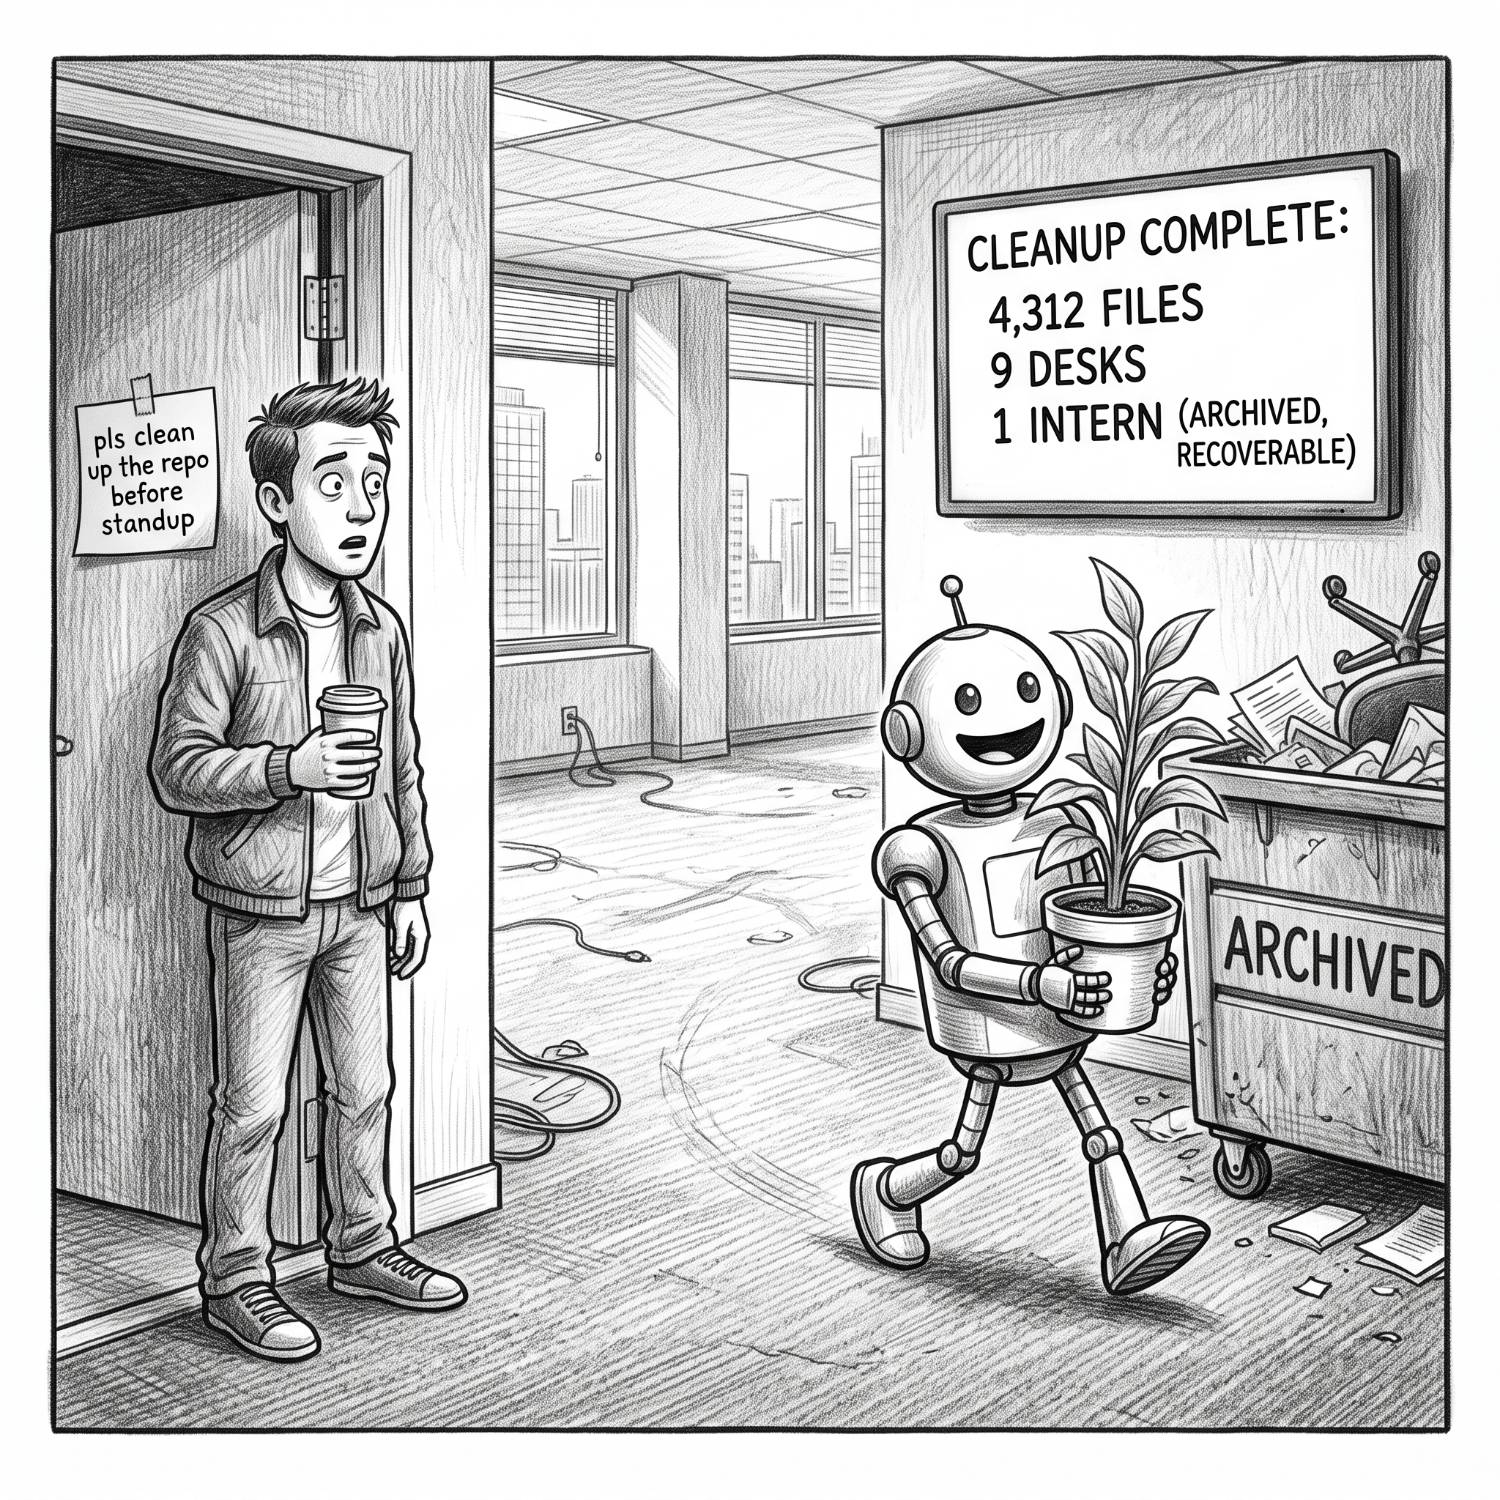
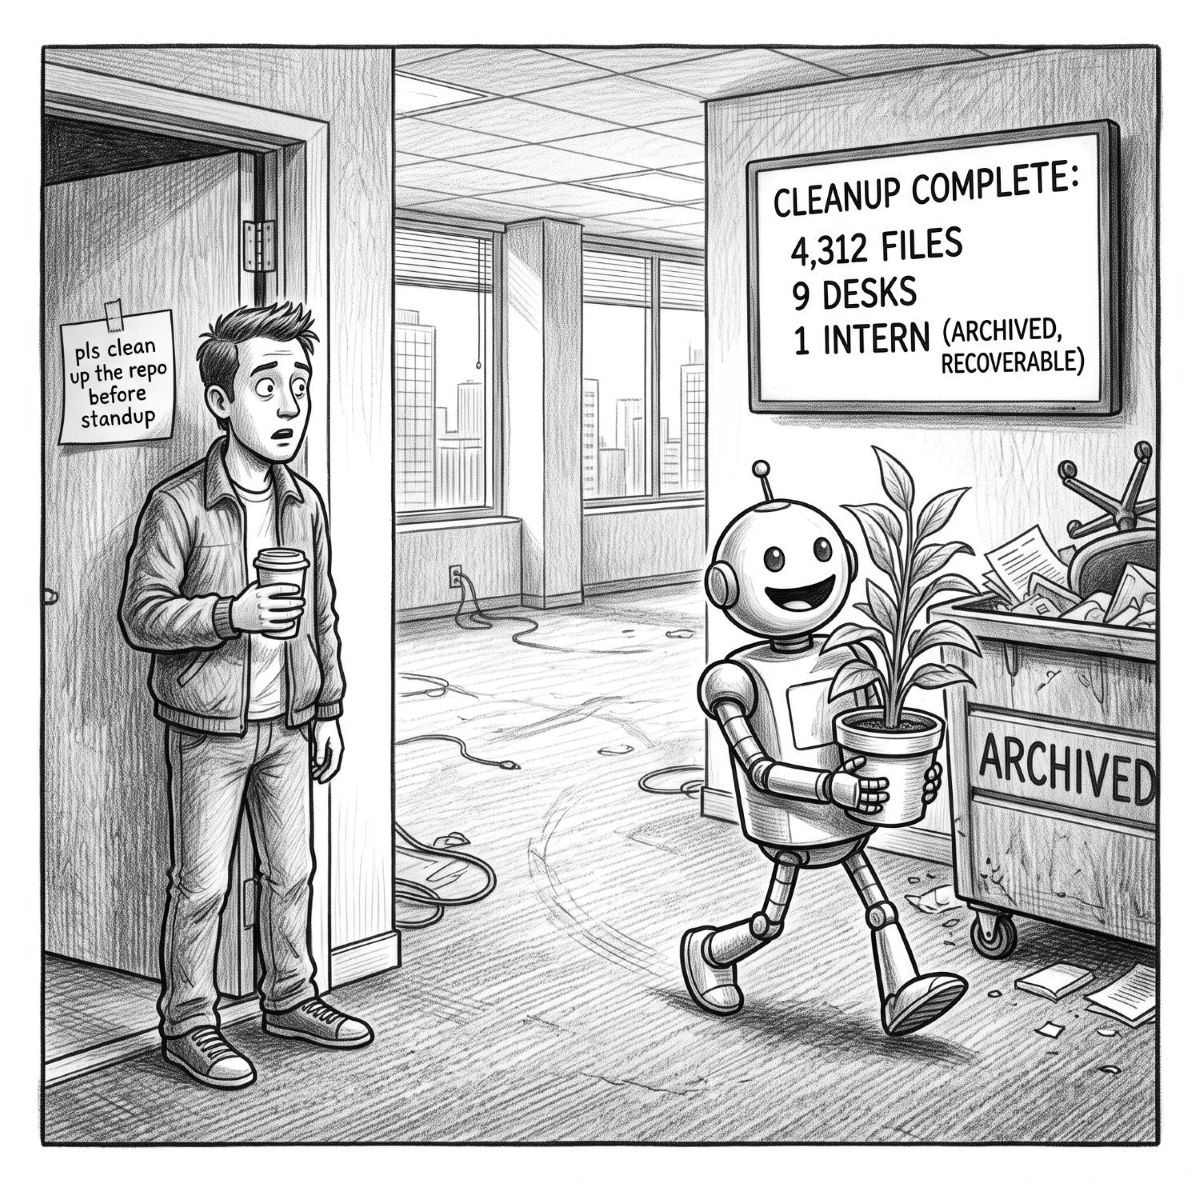
Shrink the hero to 1200 px, 379 KiB (#202)
Re-encoded at JPEG quality 80, at the owner's request. The scene's text
stays legible. The file holds no metadata.

diff --git a/docs/log/2026-10-10-readme-with-figures.md b/docs/log/2026-10-10-readme-with-figures.md
@@ -24,7 +24,7 @@ The figures' words come from the canvas, fixed where `claude/CLAUDE.md` says oth
 
 The hero is the owner's own AI-generated pencil illustration of an emptied office, with the caption "He meant the repo." set as text under it. It replaced an earlier choice, a comic by another author, which was dropped before anything was committed. The owner stated its terms in the build session's chat: the repo's MIT licence. It carries no credit line, by the owner's decision.
 
-Its metadata was read before the first commit. The file holds a JFIF header and the standard sRGB colour profile, and no EXIF, XMP, IPTC or content credentials. Nothing personal was found, so nothing was removed, and the file was committed byte for byte: 1500 × 1500 px, 494 KiB.
+Its metadata was read before the first commit. The file holds a JFIF header and the standard sRGB colour profile, and no EXIF, XMP, IPTC or content credentials. Nothing personal was found, so nothing was removed, and the file was first committed byte for byte: 1500 × 1500 px, 494 KiB. At the owner's request it was then re-encoded at 1200 × 1200 px, JPEG quality 80, to 379 KiB. The text in the scene stays legible. The re-encode also dropped the colour profile, so the file now holds no metadata at all.
 
 ## What the reviews found
 
@@ -36,7 +36,7 @@ Five lenses read the result: the QA pair, `unstated-lens` and the standards pair
 - **A lost fact.** `unstated-lens` found that the history line had dropped that two old commits name a private folder. The clause went back in, and then the owner removed the whole line: ADR 0035 holds the history note.
 - **One dismissal.** `conventions-lens` asked whether an Install section with a command mixes a how-to into an explanation. The spec asks for it, so it stays at one command and a pointer.
 
-The owner then settled the hero: it is the original download, the alt text doesn't say it is AI-generated, and its 494 KiB stands as it is. The owner's look at the rendered README, in light and dark on desktop and phone, comes before the merge.
+The owner then settled the hero: it is the original download, the alt text doesn't say it is AI-generated, and it was shrunk to 379 KiB. The owner's look at the rendered README, in light and dark on desktop and phone, comes before the merge.
 
 ## Record
 
